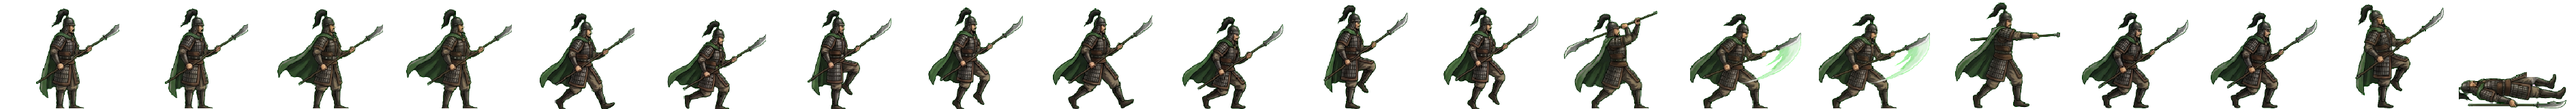
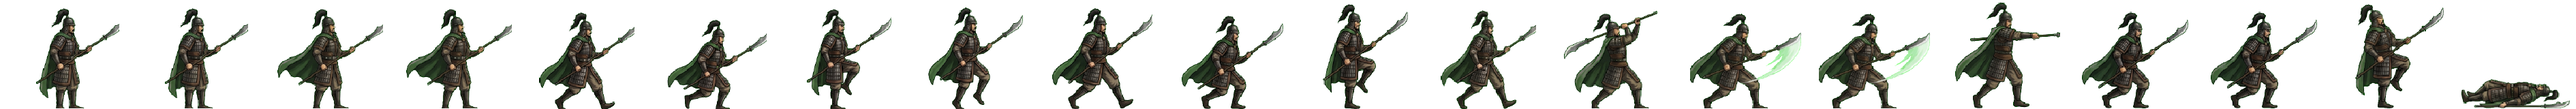
칼·활·언월도 장수 띠의 우하단 칸(걷기 8 · 쓰러짐)을 별표 없이 다시 받아 끼움
전엔 걷기 8번을 4번으로 빌려 쓰고 쓰러짐은 별표 자리를 지워 몸이 잘렸다 (형 11-03: "우하단은 별표 워터마크가 자꾸 겹치니 다시 만들어")
· 그 두 컷만 왼쪽 칸에 그리고 오른쪽 반을 비운 장으로 받는다 (제미나이 4 Argon)

Claude-Session: https://claude.ai/code/session_01TRiuNBGbXbYg8PKZrR5zi4

diff --git a/src/realm/data/art.ts b/src/realm/data/art.ts
@@ -459,8 +459,8 @@ export const SOL_ANIM_AR: Readonly<Record<string, number>> = { spear: 167 / 160,
  */
 export type GenSprite = 'g-sword' | 'g-bow' | 'g-spear' | 'w-spear' | 'w-bow' | 'mount'
 export const GEN_ANIM: Readonly<Partial<Record<string, { ar: number; body: number; bow?: true }>>> = {
-  'g-sword': { ar: 162 / 160, body: 0.941 }, // 11-03 걷기가 한 자세라 20컷 통째로 다시 (제미나이 4 Argon · tools/assemble-gen20.mjs)
-  'g-bow': { ar: 192 / 160, body: 0.948, bow: true }, // 11-03 20컷 다시 (걷기가 한 자세였다)
+  'g-sword': { ar: 150 / 160, body: 0.948 }, // 11-03 걷기가 한 자세라 20컷 통째로 다시 (제미나이 4 Argon · tools/assemble-gen20.mjs)
+  'g-bow': { ar: 149 / 160, body: 0.948, bow: true }, // 11-03 20컷 다시 (걷기가 한 자세였다)
   'g-spear': { ar: 189 / 160, body: 0.914 }, // 11-03 20컷 다시 (걷기가 한 자세였다)
   'w-spear': { ar: 184 / 160, body: 0.955 }, // 11-03 20컷 다시 (걷기가 한 자세였다)
   'w-bow': { ar: 152 / 160, body: 0.968, bow: true }, // 11-03 20컷 다시 (걷기가 한 자세였다)
